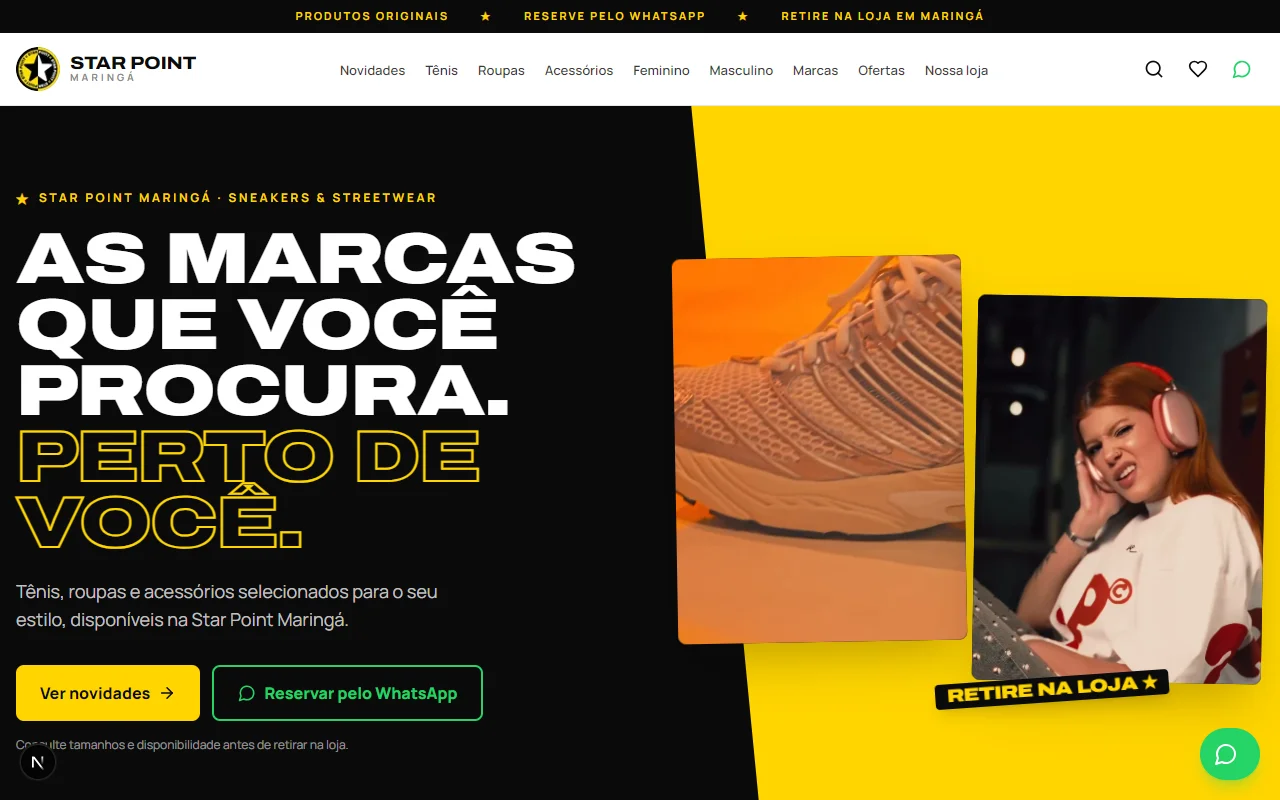
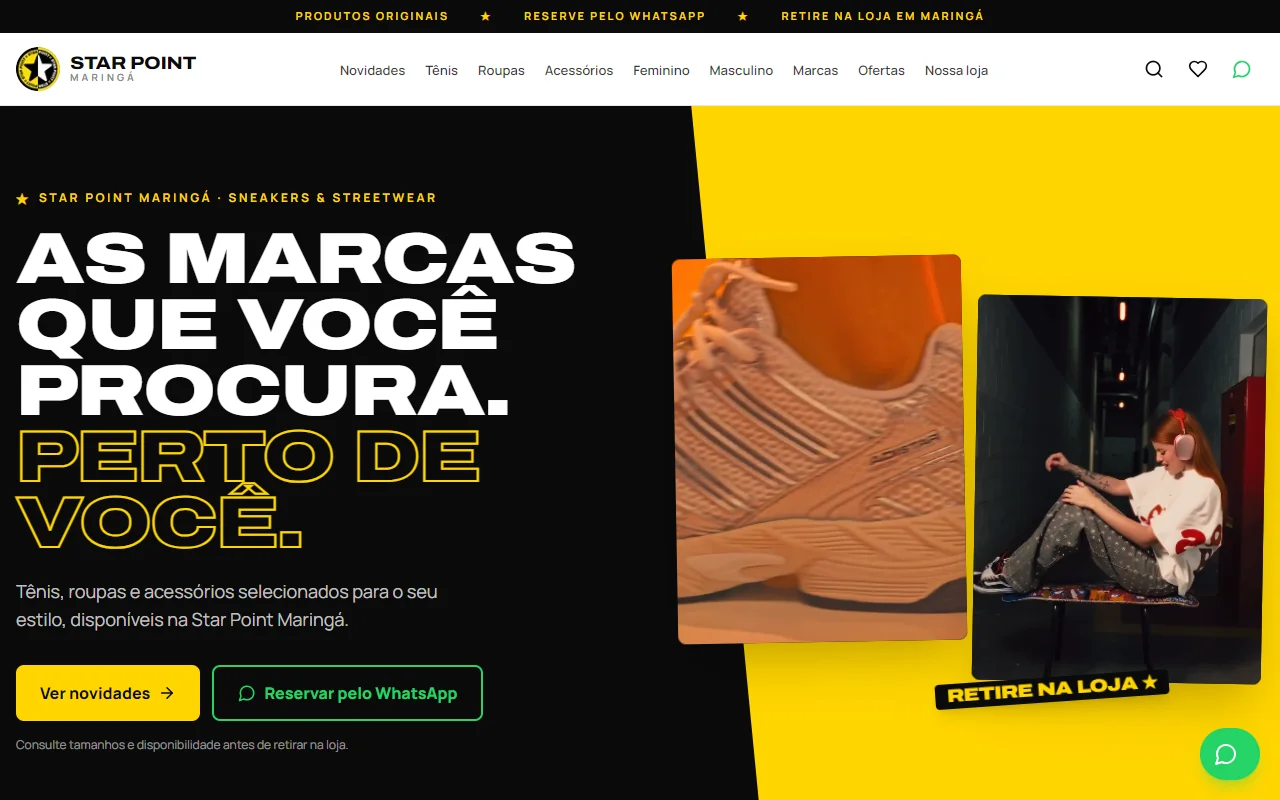
Star Point e Bella Black tambem estao no ar: os nove cards agora abrem um site
Os dois enderecos que faltavam apareceram (star-point-wheat e
bella-black-three), entao os cards deixam de ser "ENTREGUE" sem botao e
ganham o selo NO AR com "VER PROJETO". As capas foram refeitas a partir
dos sites publicados, no lugar das capturas de dev server, e as duas
lojas sobem na ordem para ficar junto das outras vitrines.

Changed region(s): [[0.5, 0.3125, 1.0, 0.875], [0.875, 0.375, 0.9062, 0.4062]]

diff --git a/data/portfolio.ts b/data/portfolio.ts
@@ -1,10 +1,12 @@
 /* Os nove projetos entregues pelo estúdio, na ordem em que aparecem no
    /portfolio: as duas vitrines que a landing já usa como prova primeiro,
-   depois os demais no ar, e por último os entregues sem endereço público
-   (Star Point aguarda liberação do cliente; a Bella Black ainda não foi
-   publicada — bellablack.com.br no ar hoje é de outra empresa).
-   Sem `url`, o card sai sem botão e sem selo de NO AR. A capa vem de
-   /public/portfolio/{slug}.webp, gerada por scripts/capture-portfolio.mjs. */
+   depois as demais lojas, e por fim os projetos que não são vitrine.
+   Todos estão no ar. Atenção aos endereços: bellablack.com.br e
+   xavierssports.com.br não resolvem DNS, e o deploy antigo do Star Point
+   (starpoint-maringa) foi apagado, então valem só as URLs abaixo.
+   Um projeto sem `url` sai com o card sem botão e sem o selo NO AR. A capa
+   vem de /public/portfolio/{slug}.webp, gerada por
+   scripts/capture-portfolio.mjs. */
 
 export type Projeto = {
   nome: string;
@@ -18,9 +20,9 @@ export const projetos: Projeto[] = [
   { nome: "PR Grife", slug: "pr-grife", tipo: "Vitrine Digital", url: "https://pr-grife.vercel.app" },
   { nome: "PR Gold", slug: "pr-gold", tipo: "Vitrine Digital", url: "https://prgold.vercel.app" },
   { nome: "Filato Bene", slug: "filato-bene", tipo: "Vitrine Digital", url: "https://filato-bene.vercel.app" },
+  { nome: "Star Point", slug: "star-point", tipo: "Vitrine Digital", url: "https://star-point-wheat.vercel.app" },
+  { nome: "Bella Black", slug: "bella-black", tipo: "Vitrine Digital", url: "https://bella-black-three.vercel.app" },
   { nome: "Sölo Urb", slug: "solo-urb", tipo: "E-commerce", url: "https://s-lo-urb.vercel.app" },
   { nome: "Lancellotti Tattoo Clinic", slug: "lancellotti", tipo: "Site profissional", url: "https://lancellotti-tattoo-clinic.vercel.app" },
   { nome: "Baixudos.PR", slug: "baixudos", tipo: "Site de evento", url: "https://baixudos.vercel.app" },
-  { nome: "Star Point", slug: "star-point", tipo: "Vitrine Digital" },
-  { nome: "Bella Black", slug: "bella-black", tipo: "Vitrine Digital" },
 ];
